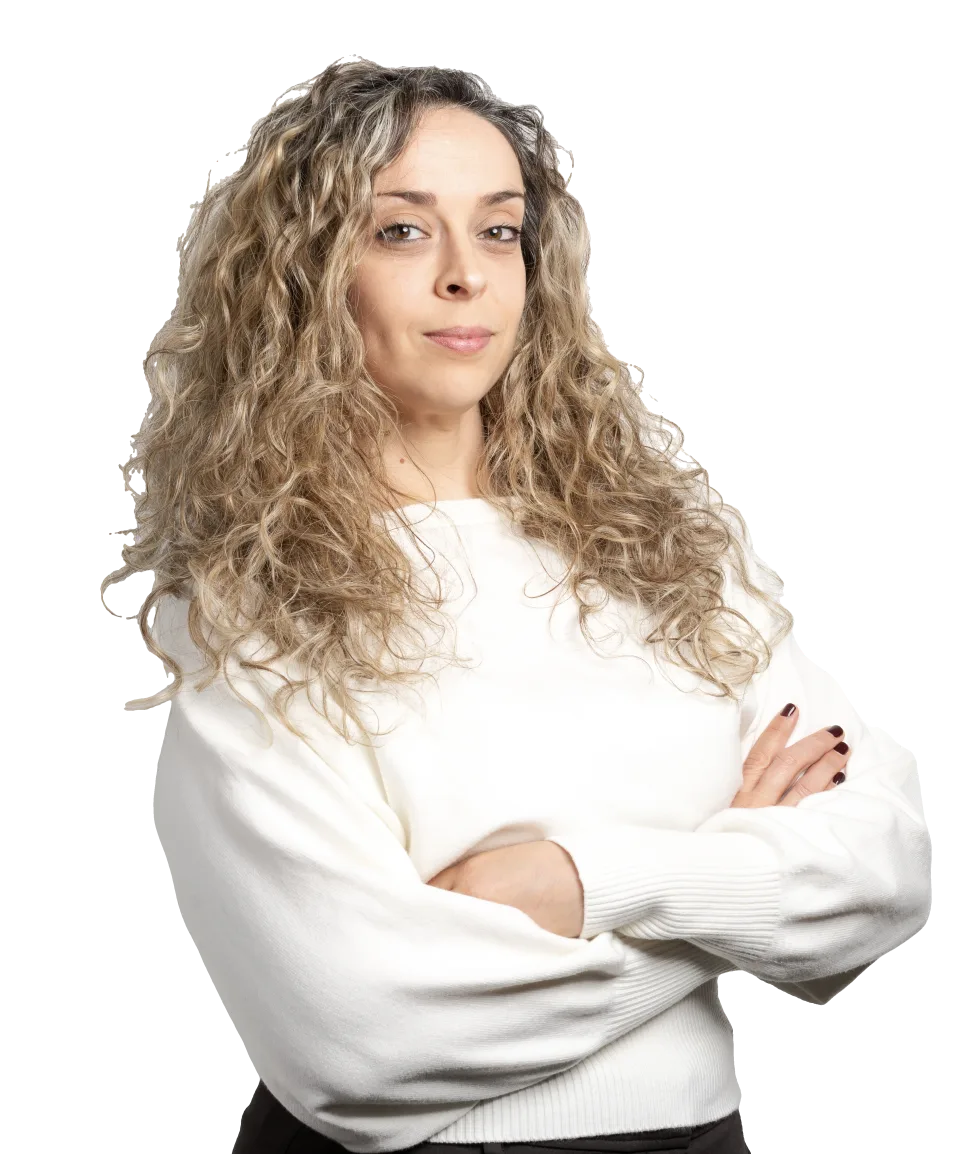
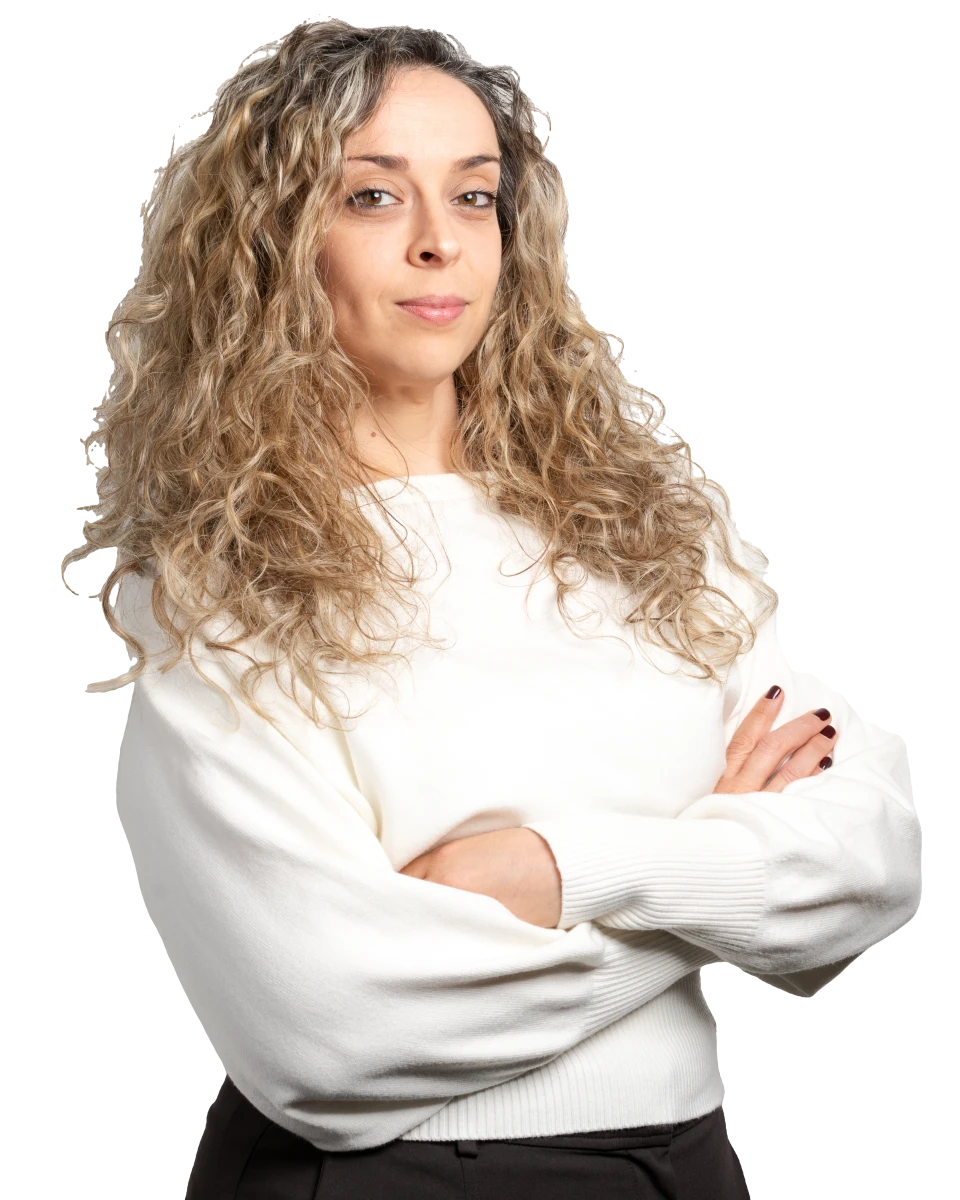
fix: adjust team card image shell height for improved layout consistency

diff --git a/src/components/TeamCard.jsx b/src/components/TeamCard.jsx
@@ -211,14 +211,12 @@ export default function TeamCard({
           >
             <div className="team-card-inner-front corners backface-hidden">
               <div className="team-card-inner-front-bg corners" />
-              <div className="team-card-image-shell">
                 <SmoothImage
                   wrapperClassName="team-card-image-shell"
                   className="team-card-image relative z-10 object-cover object-bottom max-h-full"
                   src={image}
                   alt={name}
                 />
-              </div>
             </div>
 
             <div className="team-card-back absolute corners-inverted inset-0 backface-hidden rotate-y-180">

diff --git a/src/index.css b/src/index.css
@@ -1485,10 +1485,9 @@ a:visited:active {
   display: flex;
   align-items: end;
   justify-content: center;
-  height: 100%;
+  height: 90%;
   width: 100%;
   overflow: hidden;
-  padding-inline: 0.25rem;
 }
 
 .team-card-image {
